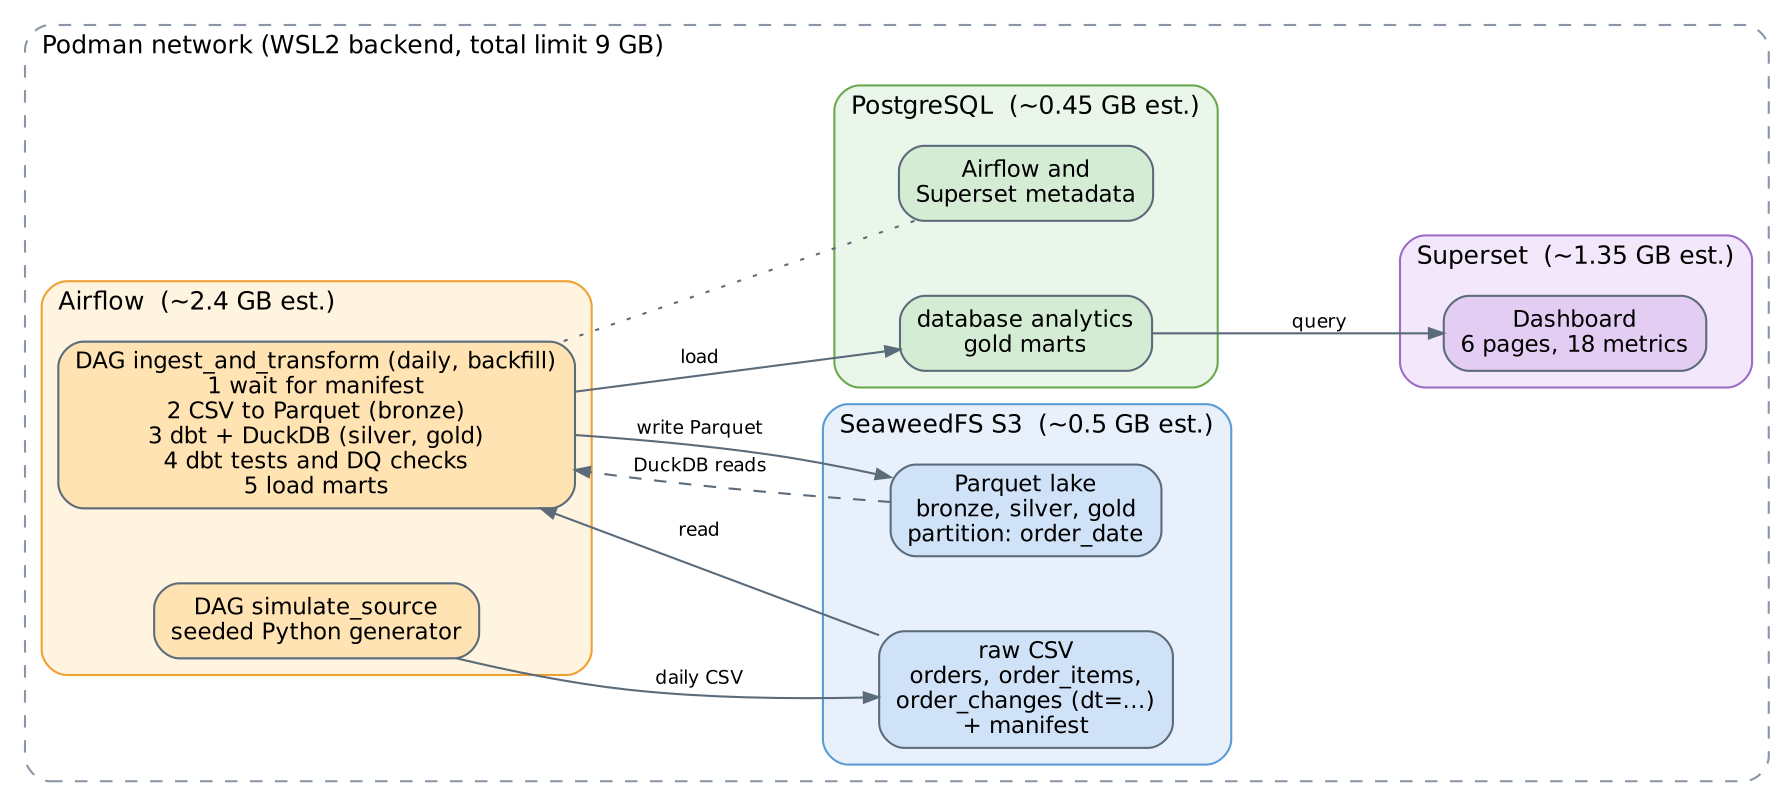
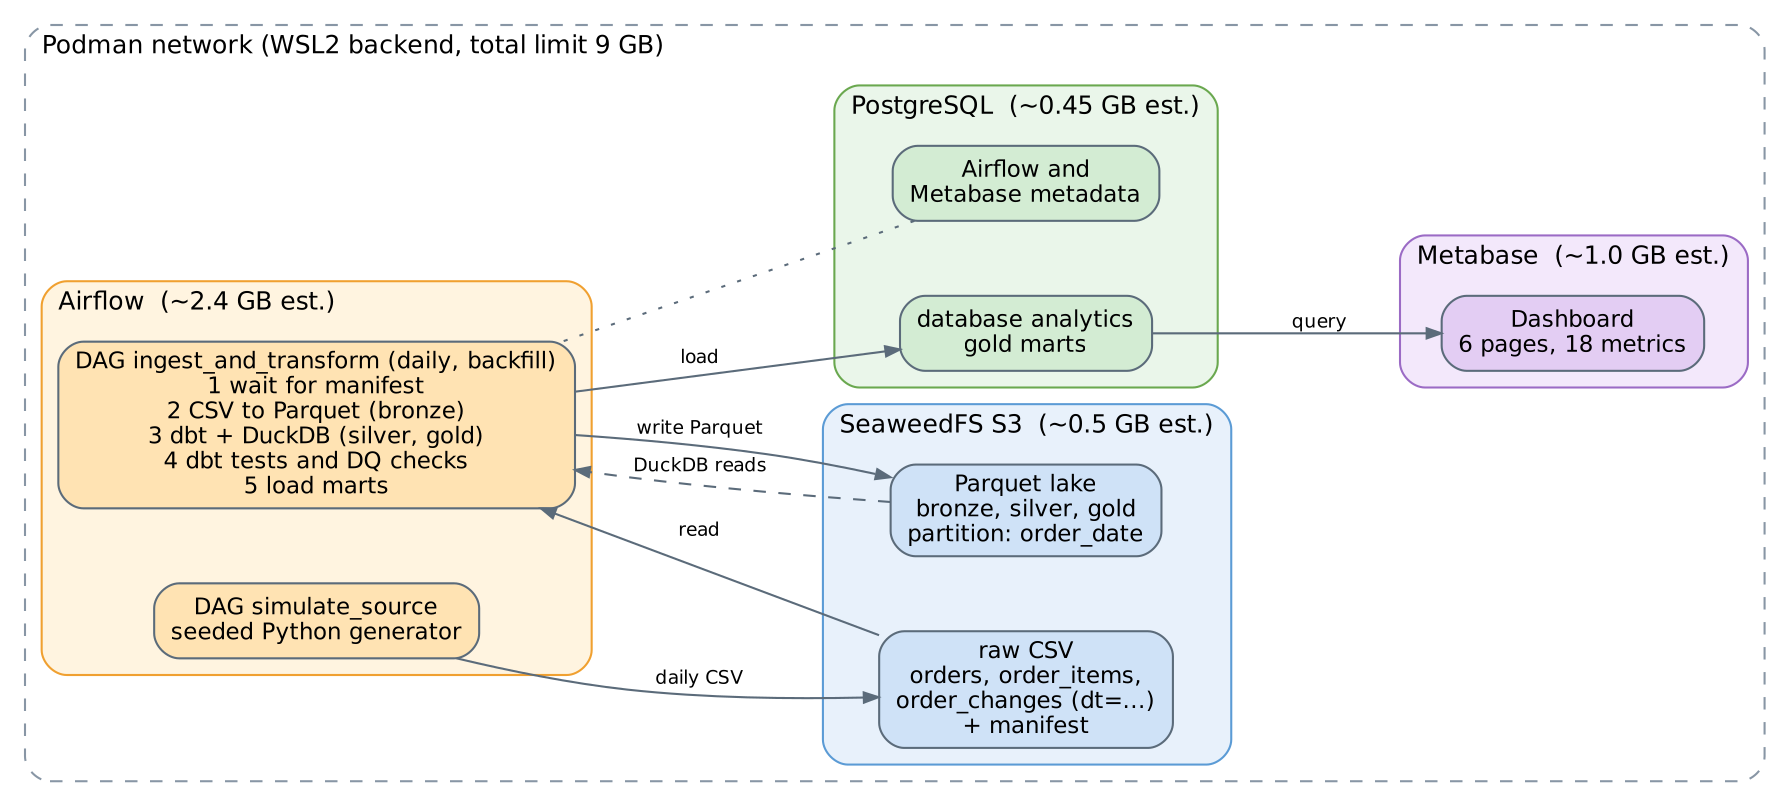
docs: switch dashboard tool from Superset to Metabase in diagram and data model

diff --git a/docs/data-model.md b/docs/data-model.md
@@ -12,7 +12,7 @@ Status: design for Mentoring 1. Layer details are provisional until the Phase 3 
 | bronze | Raw rows plus `source_file_date`, no cleaning | Parquet |
 | silver | Deduplicated, standardized, timestamps converted, `order_changes` applied, defects quarantined | Parquet partitioned by `order_date` |
 | gold | Star schema below | DuckDB / Parquet |
-| marts | Small aggregates for the dashboard | PostgreSQL database `analytics`, read by Superset |
+| marts | Small aggregates for the dashboard | PostgreSQL database `analytics`, read by Metabase |
 
 Refunds and cancellations are attributed to the order date. A refund therefore rewrites the `order_date` partition of its order, up to 8 days back. Late-arriving orders (file date later than order date) land in their own order-date partition.
 
